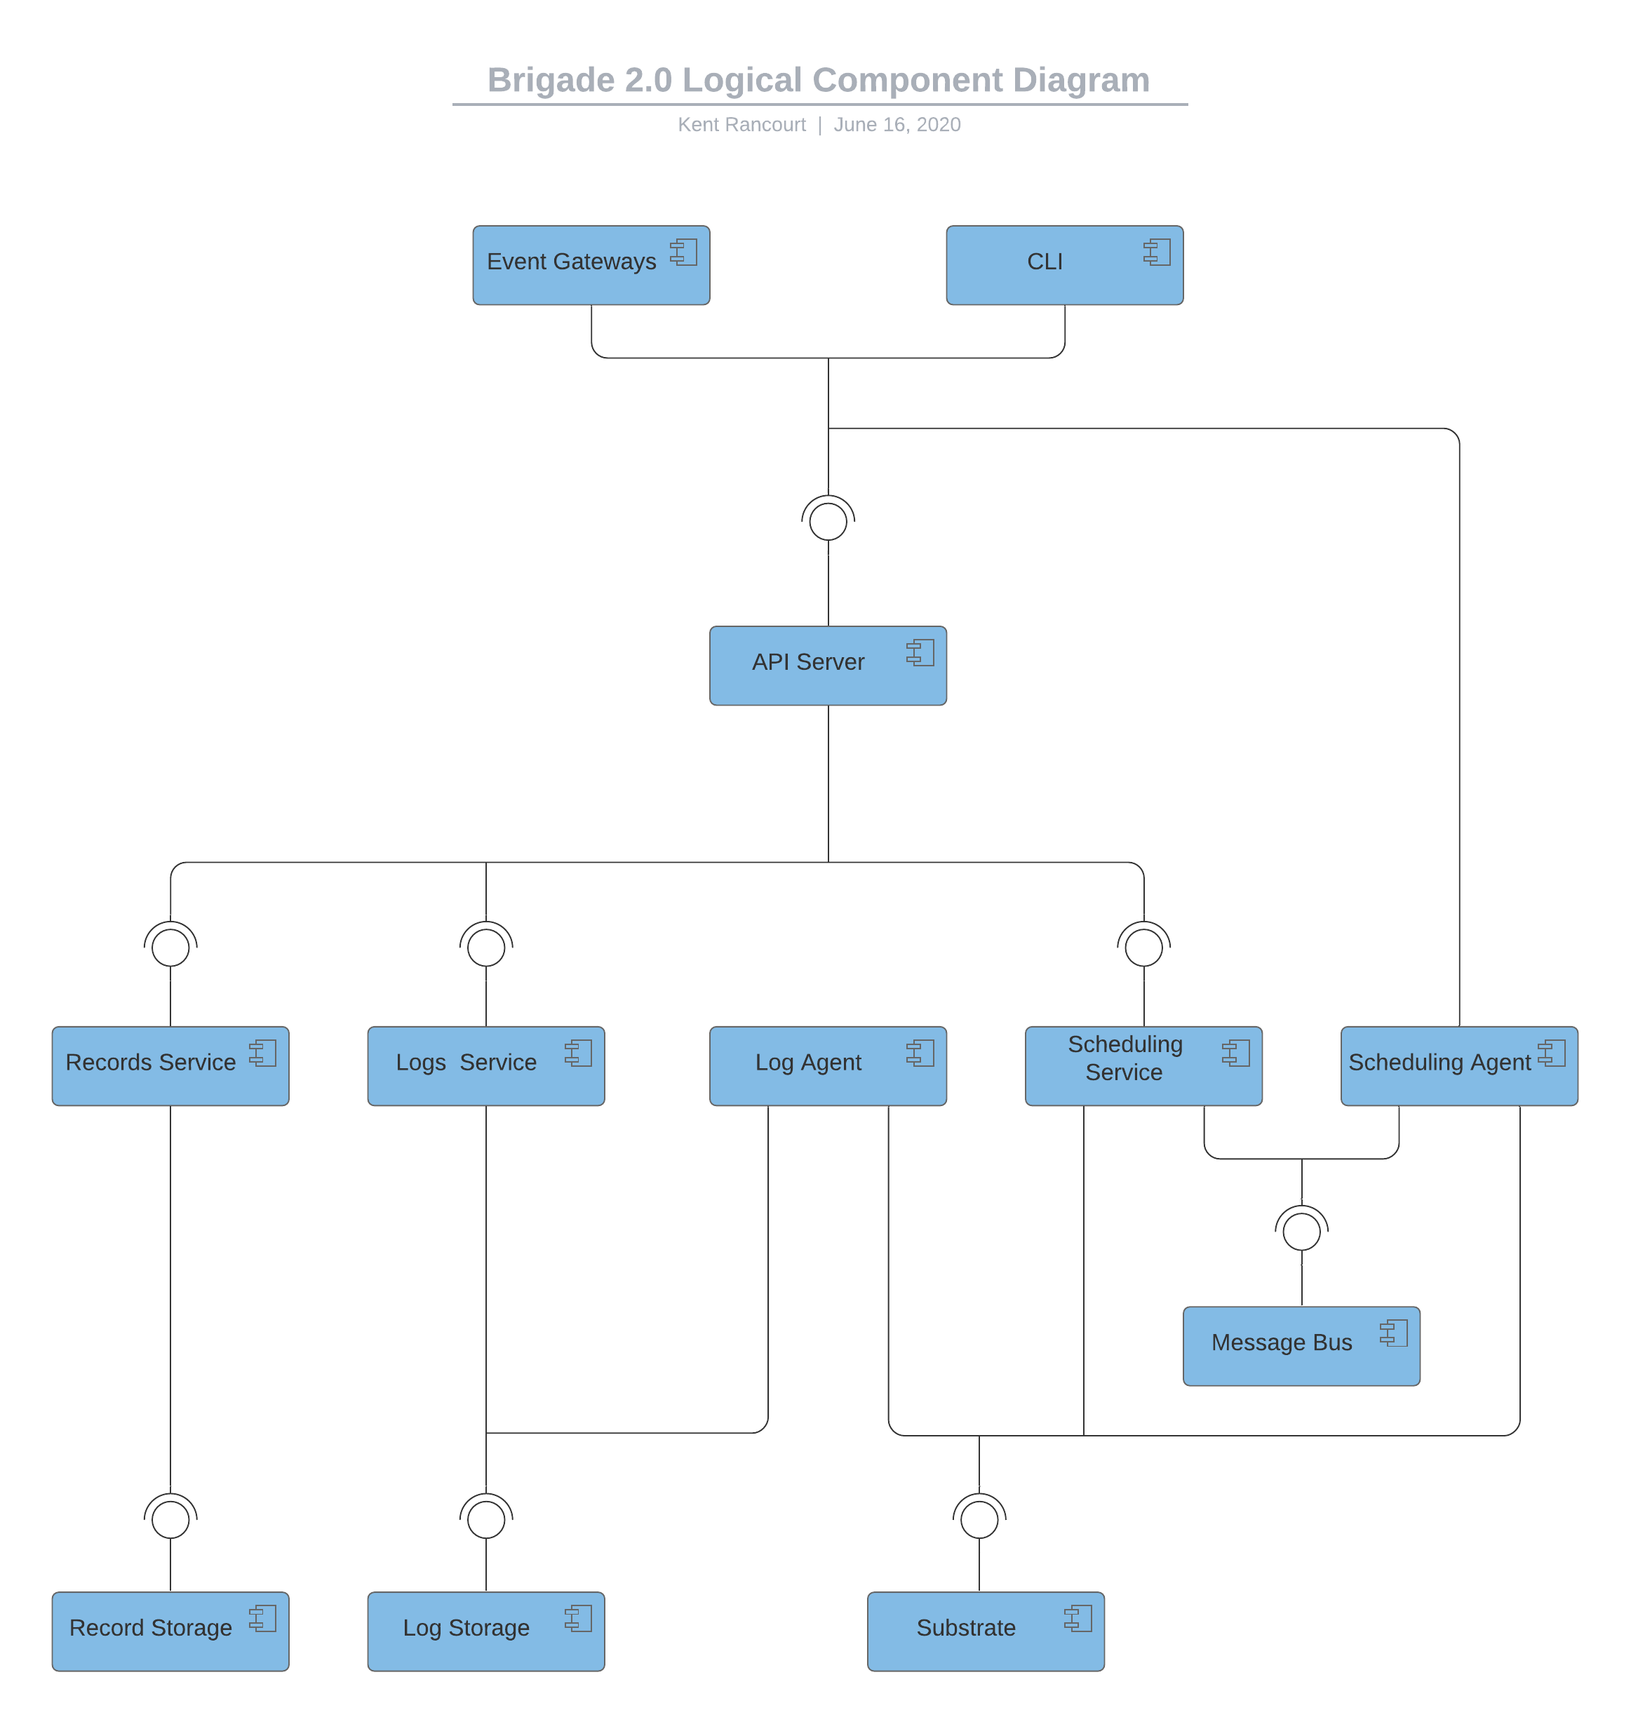
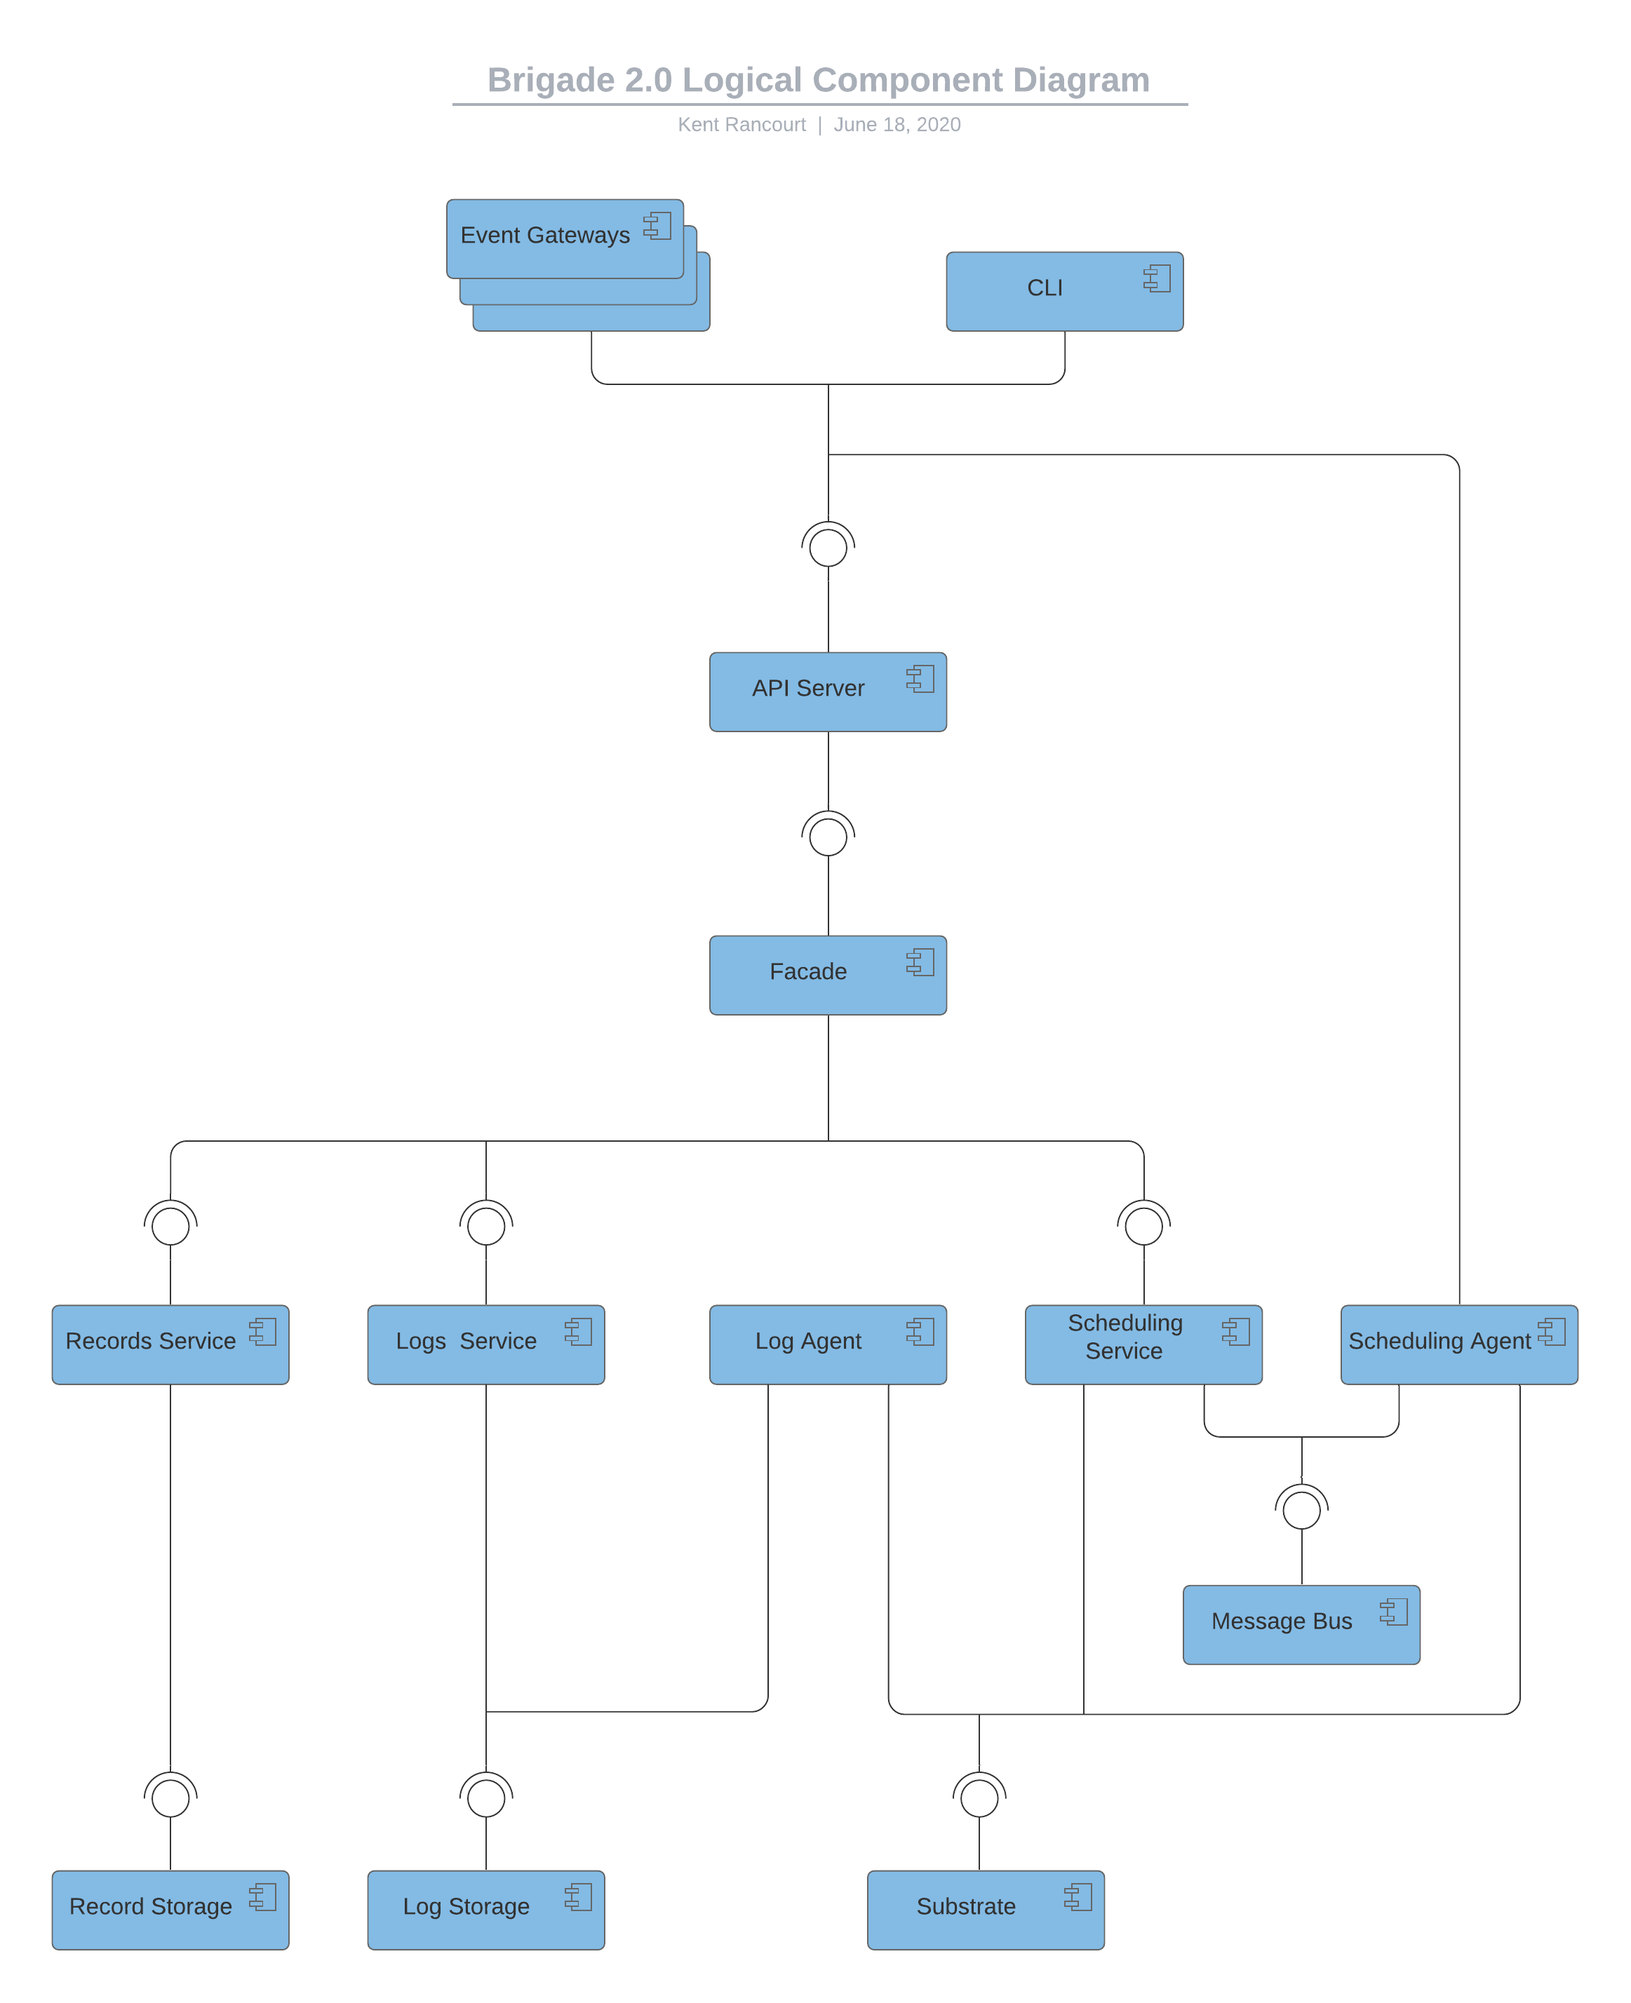
more proposal work

diff --git a/PROPOSAL.md b/PROPOSAL.md
@@ -341,11 +341,11 @@ execution substrate to only a few components.
 ### High Level Architecture
 
 With a few cross-cutting concerns such as access control notwithstanding, the
-proposed architecture decomposes Brigade three logical sub-systems-- record
-keeping, scheduling, and logging-- with a service layer to coordinate among
-these three. The service layer will be exposed to clients via secure HTTP
-endpoints that implement a RESTful API. An API client will be made available as
-a Go package.
+proposed architecture decomposes Brigade into three logical subsystems-- record
+keeping, scheduling, and logging-- with a service facade layer to coordinate
+among these three. The service facade layer will be exposed to clients via
+secure HTTP endpoints that implement a RESTful API. An API client will be made
+available as a Go package.
 
 ![Logical Component Model](component.png)
 
@@ -354,42 +354,43 @@ is the web-based, read-only Brigade 1.x dashboard.) The API referenced above is
 a _new_ one for use by all Brigade 2.0 components, gateways, and clients so as
 to abstract all of those away from underlying technology choices.
 
-The following sequence diagram depicts by example how different logical
-components interact with one another, using the complex sequence of event
-creation and handling to illustrate.
+The following diagram depicts by example how different logical components
+interact with one another, using the complex sequence of event creation and
+handling to illustrate.
 
 ![Event Lifecycle](events.png)
 
 ### REST API Endpoints
 
 Brigade 2.0's REST API will be minimal and unremarkable, serving only to handle
-transport-specific details-- decoding HTTP requests into domain objects that
-may be passed to a transport-agnostic service layer and encoding domain objects
-returned from that service layer as HTTP responses.
+transport-specific details-- decoding HTTP requests into domain objects that may
+be passed to a transport-agnostic service facade layer and encoding domain
+objects returned from that service facde layer as HTTP responses.
 
-It is proposed that validation be handled by the endpoints since JSON schema
+It is proposed that validation be handled by the API endpoints since JSON schema
 provides an easy and efficient mechanism for this purpose, but must be applied
 to raw HTTP request bodies prior to unmarshaling.
 
-### The Service Layer
+### The Service Facade Layer
 
-Brigade 2.0's service layer will implement all vendor-neutral business logic and
-both delegate to and coordinate Brigade's underlying sub-systems through
+Brigade 2.0's service facade layer will implement high level, vendor neutral
+business logic and coordinate Brigade's underlying subsystems through
 well-defined interfaces.
 
-### Record Keeping
+### Record Keeping Subsystem
 
-The record keeping subsystem will handle persistence for domain objects such as
-projects and events. Document-based storage is proposed since relatively few
-relationships exist between domain objects and among those relationships that do
-exist, composition is highly favored. i.e. A relational database is unlikely to
-yield any significant advantages.
+The record keeping subsystem will provide a synchronous interface for the
+persistence of domain objects such as projects and events. Document-based
+storage is proposed since relatively few relationships exist between domain
+objects and among those relationships that do exist, composition is highly
+favored. i.e. A relational database is unlikely to yield any significant
+advantages.
 
 Further, MongoDB is recommended as the underlying data store based on several
 factors:
 
 1. Permissive license
-1. Deployable in-cluster
+1. Deployable in-cluster; can be included in default Brigade install
 1. Managed instances available from numerous vendors
 1. Deployable in wide array of configurations to cover both
    evaluation/development use _and_ production use
@@ -398,7 +399,7 @@ factors:
 1. Distributed transactions available when needed (in some configurations)
 1. Widespread developer familiarity
 
-### Scheduling
+### Scheduling Subsystem
 
 The scheduling subsystem will provide a synchronous interface for managing the
 underlying workload execution substrate-- which will be Kubernetes, exclusively.
@@ -425,16 +426,27 @@ should have most, if not all of these qualities:
 1. Demonstrated ability to scale
 1. Widespread developer familiarity
 
+A non-exhaustive list of potential message buses includes:
+
+1. NATS
+1. NSQ
+1. RabbitMQ
+1. Redis (using the [reliable queue](https://redis.io/commands/rpoplpush#pattern-reliable-queue) pattern)
+
 `<<TODO: Describe the role of workers.>>`
 
-### Logging
+### Logging Subsystem
 
 The logging subsystem will utilize an agent-per-node deployment model to
 aggregate logs from worker and job containers and persist them in some data
 store. Another component of the subsystem will make these logs available on a
 read-only basis via the Brigade API.
 
-Fluentd is recommended for log aggregation.
+Fluentd is recommended for log aggregation. Although ElasticSearch seems to be
+the most popular data store for logs forwarded from Fluentd agents, this
+proposal recommends the use of MongoDB for this purpose. Assuming MongoDB will
+be utilized as the record keeping subsystem's underlying data store, the choice
+to reuse it minimizes the footprint of Brigade's infrastructure dependendies.
 
 N.B. The
 [log-agent-per-node](https://docs.fluentd.org/container-deployment/kubernetes#fluentd-daemonset)
@@ -447,7 +459,7 @@ designated for the execution of Brigade workers and jobs.
 
 In contrast to Brigade 1.x, the design proposed here does not have Brigade
 clients communicating directly with the Kubernetes API server. By requiring
-Brigade 2.0 clients to communicate with a Brigade API instead, the implicit
+Brigade 2.0 clients to communicate with a new Brigade API instead, the implicit
 delegation of authentication and authorization to the Kubernetes API server
 comes to an end and must be replaced with other access control measures.
 
@@ -469,7 +481,8 @@ well as a URL that the human user can navigate to using their web browser in
 order to complete authentication using their trusted identity provider.
 Completion of that process results in bearer token _activation_. All subsequent
 user interactions with Brigade will present the bearer token as proof of
-authentication. Bearer tokens will expire periodically.
+authentication. Bearer tokens will expire periodically. (As a point of
+reference, the Azure CLI implements authentication in a similar fashion.)
 
 ![Authentication Using OpenID Connect](authentication.png)
 
@@ -482,9 +495,10 @@ the time of deployment / re-deployment / upgrade.
 Non-human users-- such as event gateways-- will utilize service accounts that
 human Brigade administrators may manage directly using the CLI/API. Service
 accounts will authenticate by means of non-expiring, but revokable, bearer
-tokens.
+tokens. (Note these are _not_ Kubernetes service accounts; but _Brigade_ service
+accounts.)
 
-Lastly, the scheduling agent is, necessarily, a special class of user that can
+Lastly, the scheduling agent is, necessarily, a _special class of user_ that can
 carry out operations disallowed for _all_ other users (including "root"). These
 include updating the observed status of an executing worker or job. Being a
 special class of user, the controller will authenticate to the API using a
@@ -492,16 +506,106 @@ shared secret that is mutually agreed upon at the time of deployment /
 re-deployment / upgrade.
 
 To prevent session hijacking by means of root password theft or bearer token
-theft, Brigade API servers in remote clusters must secure traffic using HTTPS.
+theft, Brigade API servers in remote clusters should secure traffic API traffic
+using HTTPS.
 
 #### Authorization
 
-With authorization concerns no longer implicitly delegted to the Kubernetes API
-server, Brigade 2.0 will need to provide its own access control model.
+With authorization concerns no longer implicitly delegated to the Kubernetes API
+server, Brigade 2.0 will need to provide its own access control model. It is
+proposed to utilize a simple model wherein permissions are granted by
+associating a principal with an action and a resource (or set of resources)
+identified by means of a URI.
 
-`<<To be continued...>>`
+The following table illustrates using several examples.
+
+`<<TODO: Some of this is loosely inspired by Open Policy Agent. Read up on that some more for more useful insight...>>`
+
+| Principal Type | Principal | Action | Resource | Result |
+|----------------|-----------|--------|----------|--------|
+| user | matt.butcher@microsoft.com | create | /permissions | Matt can create global permissions. |
+| user | matt.butcher@microsoft.com | list | /permissions | Matt can list global permissions. |
+| user | matt.butcher@microsoft.com | delete | /permissions/* | Matt delete any global permission. |
+| user | matt.butcher@microsoft.com | create | /projects | Matt can create new projects. |
+| user | matt.butcher@microsoft.com | list | /projects | Matt can list projects. |
+| user | matt.butcher@microsoft.com | get | /projects/* | Matt can view any project. |
+| user | matt.butcher@microsoft.com | update | /projects/* | Matt can update any project. |
+| user | matt.butcher@microsoft.com | delete | /projects/* | Matt can delete any project. |
+| user | matt.butcher@microsoft.com | create | /projects/*/events | Matt can create new events for any project. |
+| user | matt.butcher@microsoft.com | list | /projects/*/events | Matt can list events for any project. |
+| user | matt.butcher@microsoft.com | get | /projects/*/events/* | Matt can view any event for any project. |
+| user | matt.butcher@microsoft.com | cancel | /projects/*/events/* | Matt can cancel any event for any project. |
+| user | matt.butcher@microsoft.com | delete | /projects/*/events/* | Matt can delete any event for any project. |
+| user | matt.butcher@microsoft.com | create | /projects/*/permissions | Matt can create permissions for any project. |
+| user | matt.butcher@microsoft.com | list | /projects/*/permissions | Matt can list permissions for any project. |
+| user | matt.butcher@microsoft.com | delete | /projects/*/permissions/* | Matt can delete any permission for any project. |
+| user | matt.butcher@microsoft.com | create | /service-accounts | Matt can create new service accounts. |
+| user | matt.butcher@microsoft.com | list | /service-accounts | Matt can list service accounts. |
+| user | matt.butcher@microsoft.com | get | /service-accounts/* | Matt can view any service account. |
+| user | matt.butcher@microsoft.com | update | /service-accounts/* | Matt can update any service account. |
+| user | matt.butcher@microsoft.com | lock | /service-accounts/* | Matt can lock any service account. |
+| user | matt.butcher@microsoft.com | unlock | /service-accounts/* | Matt can unlock any service account. |
+| user | matt.butcher@microsoft.com | list | /users | Matt can list users. |
+| user | matt.butcher@microsoft.com | get | /users/* | Matt can view any user. |
+| user | matt.butcher@microsoft.com | lock | /users/* | Matt can lock any user. |
+| user | matt.butcher@microsoft.com | unlock | /users/* | Matt can unlock any user. |
+| user | kent.rancourt@microsoft.com | list | /permissions | Kent can list global permissions. |
+| user | kent.rancourt@microsoft.com | list | /projects | Kent can list projects. |
+| user | kent.rancourt@microsoft.com | get | /projects/* | Kent can view any project. |
+| user | kent.rancourt@microsoft.com | update | /projects/foo | Kent can update the foo project. |
+| user | kent.rancourt@microsoft.com | delete | /projects/foo | Kent can delete the foo project. |
+| user | kent.rancourt@microsoft.com | create | /projects/foo/events | Kent can create new events for the foo project. |
+| user | kent.rancourt@microsoft.com | list | /projects/foo/events | Kent can list events for the foo project. |
+| user | kent.rancourt@microsoft.com | get | /projects/foo/events/* | Kent can view any event for the foo project. |
+| user | kent.rancourt@microsoft.com | cancel | /projects/foo/events/* | Kent can cancel any event for the foo project. |
+| user | kent.rancourt@microsoft.com | delete | /projects/foo/events/* | Kent can delete any event for the foo project. |
+| user | kent.rancourt@microsoft.com | create | /projects/foo/permissions | Kent can create permissions for the foo project. |
+| user | kent.rancourt@microsoft.com | list | /projects/*/permissions | Kent can list permissions for any project. |
+| user | kent.rancourt@microsoft.com | delete | /projects/foo/permissions/* | Kent can delete any permission for the foo project. |
+| user | kent.rancourt@microsoft.com | list | /service-accounts | Kent can list service accounts. |
+| user | kent.rancourt@microsoft.com | get | /service-accounts/* | Kent can view any service account. |
+| user | kent.rancourt@microsoft.com | list | /users | Kent can list users. |
+| user | kent.rancourt@microsoft.com | get | /users/* | Kent can view any user. |
+| user | radu.matei@microsoft.com | get | /projects/foo | Radu can view the foo project. |
+| user | radu.matei@microsoft.com | list | /projects/foo/events | Radu can list events for the foo project. |
+| user | radu.matei@microsoft.com | get | /projects/foo/events/* | Radu can view any event for the foo project. |
+| service account | github-gateway | create | /projects/*/events?source=github.com%2Fkrancour%2Fbrigade-github-gateway | The GitHub gateway can create events with `source=github.com/krancour/brigade-github-gateway` for any project. |
+| service account | github-gateway | get | /projects/*/events/*?source=github.com%2Fkrancour%2Fbrigade-github-gateway | The GitHub gateway can view events with `source=github.com/krancour/brigade-github-gateway` for any project. |
+
+`<<TODO: To be continued...>>`
 
 #### Secret Storage
+
+With respect to secrets used by Brigade itself, for instance bearer tokens
+associated with a user session or service account, it is both sufficient and
+easy to persist only a secure, one-way hash, however, no such assumption can be
+made with respect to a _project's_ secrets. Without knowing _how_ a project will
+utilize its secrets, any encryption must be reversible such that the original,
+cleartext value is available to workers and jobs in the course of
+event-handling. This being the case, secure storage of encrypted project-level
+secrets is a necessity. Implementing this would onerous once factors such as
+periodic key rotation have been accounted for and maintainers do not wish to
+undertake this. On the surface, delegating secret storage to a managed service
+such as Azure Key Vault or similar may appear easy and attractive, but would
+increase the operational footprint of Brigade's infrastructure dependencies and
+impede ease of use for evaluation or development purposes, making this another
+undesirable option.
+
+Recognizing, however, that once created, project-level secrets are utilized
+exclusively by workers and jobs, both of which execute on the underlying
+workload execution substrate (i.e. Kubernetes), and further recognizing that to
+be made available to those workers and pods, secret values must necessarily, at
+some point, be stored using the substrate's native secret storage mechanisms
+(i.e. Kubernetes `Secret` resources), it begins to appear tenable to delegate
+secret storage _exclusively_ to the substrate via the scheduling subsystem. i.e.
+When setting the value of a secret, it is set directly on the substrate and
+stored nowhere else.
+
+The secret storage solution proposed above means that Brigade can do no worse
+than the underlying substrate in securing a project's secrets. If the underlying
+substrate's (i.e. Kubernetes') native secret storage facilities are deemed
+inadequate, that problem is not Brigade's and can be addressed at a lower level,
+since Kubernetes supports pluggable backends for secret management.
 
 #### Preventing Escalation of Privileges
 
